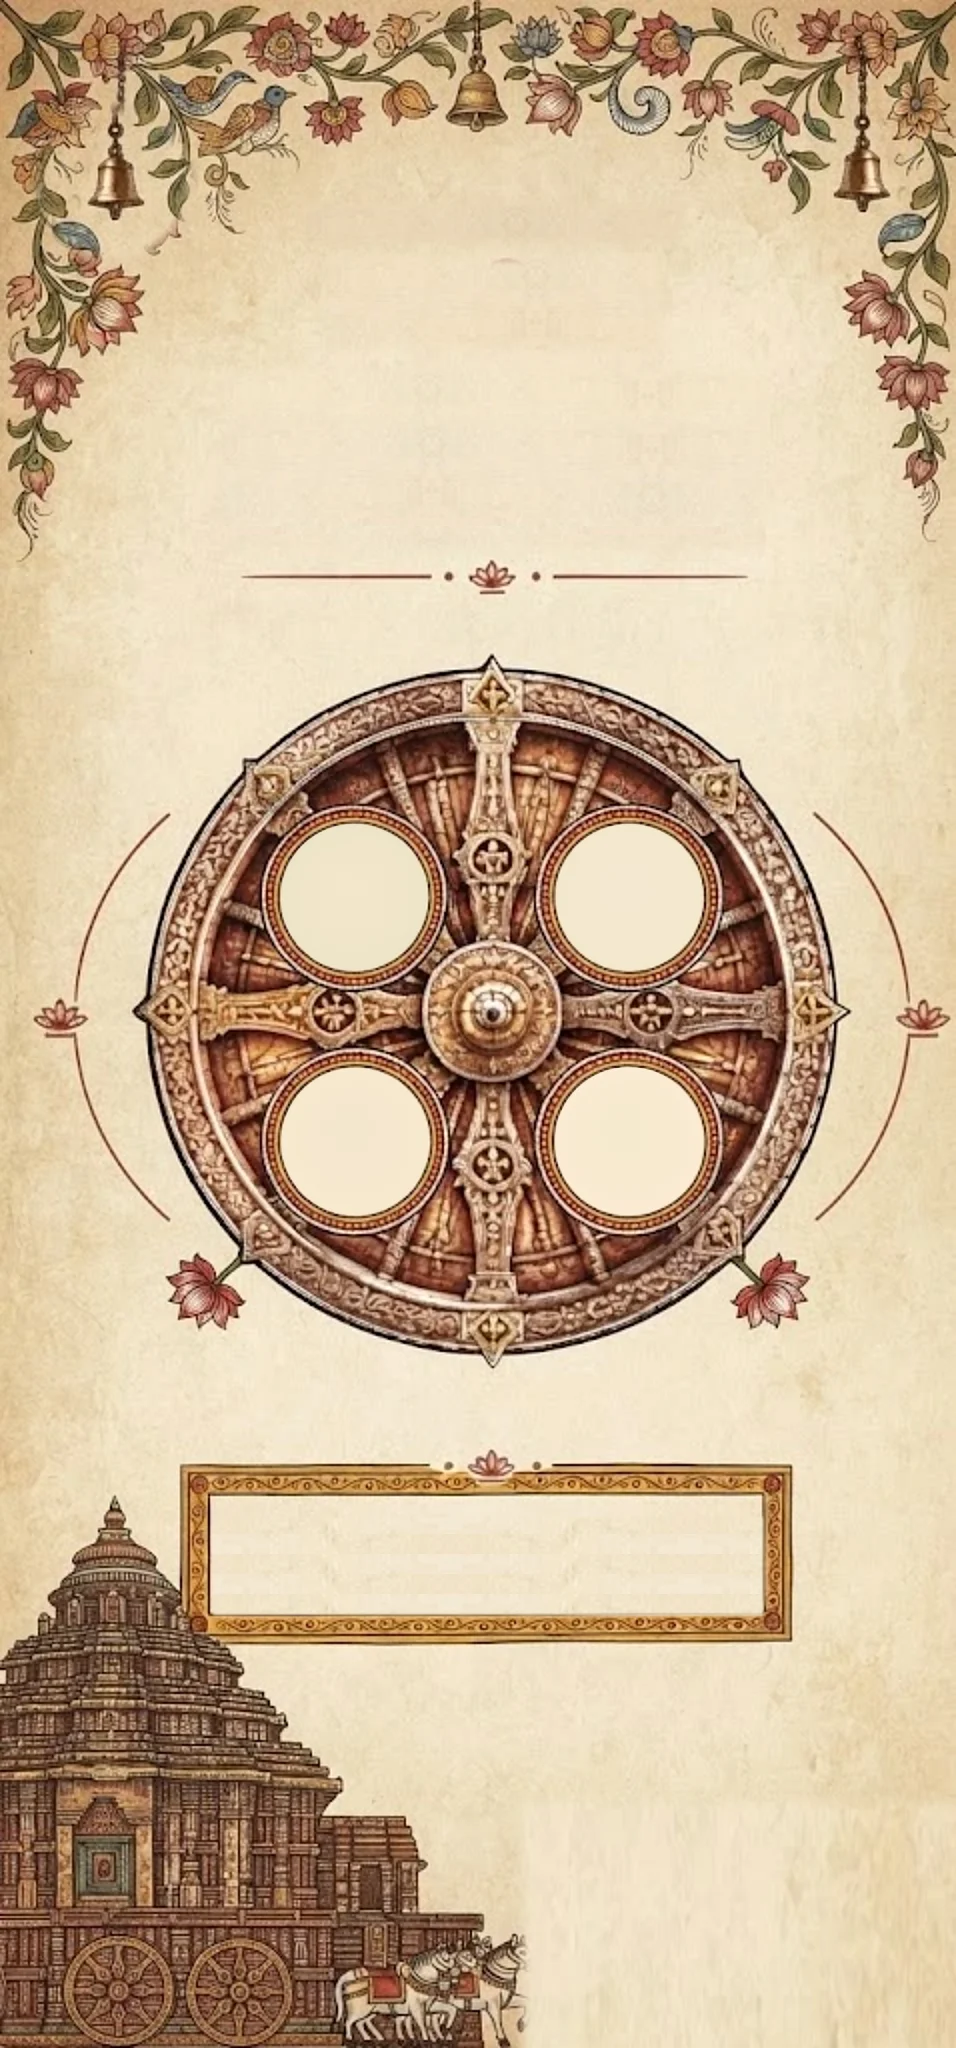
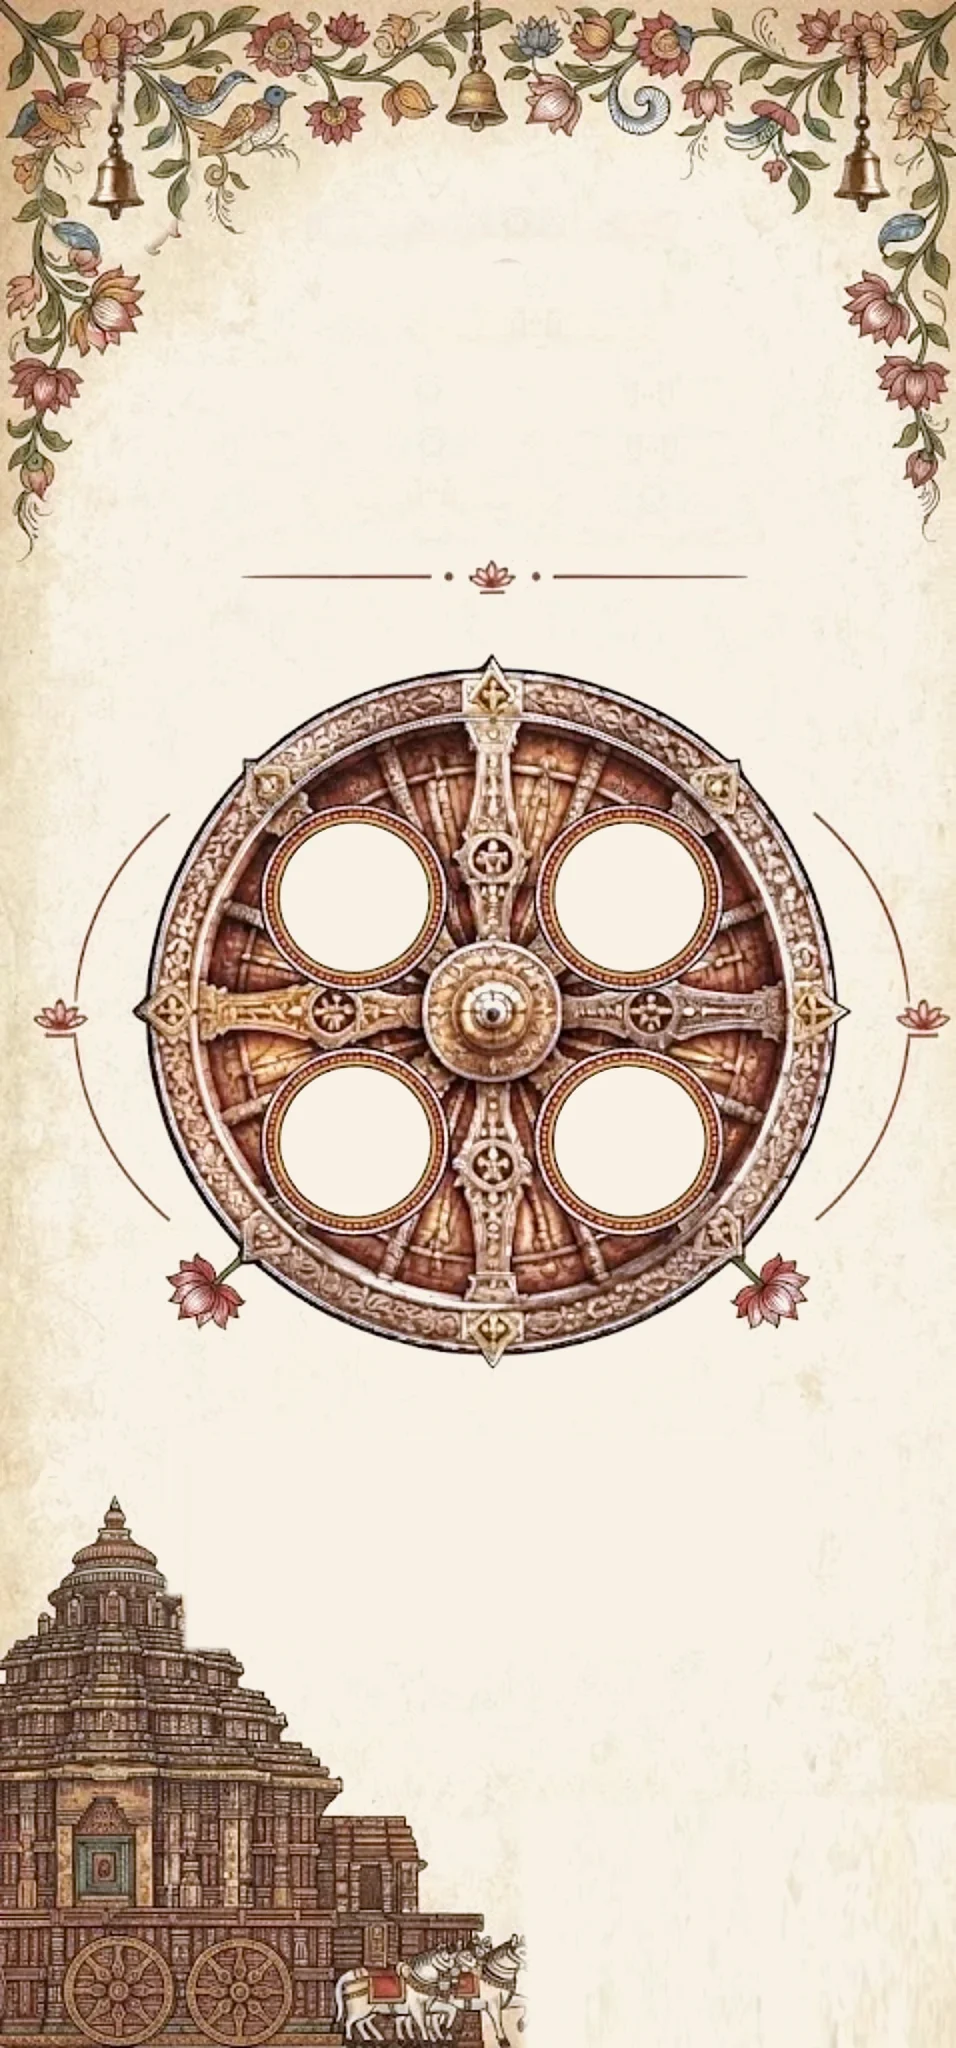
Countdown: cream background again, no date frame, date under the wheel
- The painting's parchment is recoloured to the couple card cream
  (#F8F2E5) by dividing out the local paper colour, so the florals, wheel
  and temple keep their own colours
- The gilded date frame and its lotus are painted out
- The date sits centred, 16px below the wheel's lowest point

diff --git a/src/components/sections/Countdown.tsx b/src/components/sections/Countdown.tsx
@@ -12,7 +12,8 @@ const INK = "#5E4A3A";
 /**
  * The painted page, from the couple's reference design (478×1024, shown 2×):
  * a Pattachitra floral border with temple bells, the carved Konark wheel with
- * four blank clock faces, a gilded date frame and the Sun Temple chariot.
+ * four blank clock faces, and the Sun Temple chariot — its parchment turned
+ * to the couple card's cream.
  * Everything live (words, numbers, date) is set over it in HTML; positions
  * below are in the artwork's own pixels.
  */
@@ -25,6 +26,7 @@ const FACES = [
 ];
 const FACE_R = 37;
 const CENTRE_X = 245;
+const WHEEL_BOTTOM = 676; // tip of the wheel's lowest point
 const pctX = (x: number) => `${((x / ART.w) * 100).toFixed(3)}%`;
 const pctY = (y: number) => `${((y / ART.h) * 100).toFixed(3)}%`;
 const cq = (px: number) => `${((px / ART.w) * 100).toFixed(3)}cqw`;
@@ -66,7 +68,7 @@ function useNow(active: boolean): number {
  * One painted page: under a Pattachitra floral border hung with temple bells,
  * "Shubha Bibaha · The countdown to our Forever Begins"; the carved Konark
  * wheel, its four clock faces counting the days, hours, minutes and seconds
- * to the Lagna; the date in a gilded frame; and the Sun Temple chariot at the
+ * to the Lagna; the date just beneath it; and the Sun Temple chariot at the
  * foot, beside a short note. Hidden in production until the date is
  * configured (unless placeholders are on).
  */
@@ -121,7 +123,7 @@ function CountdownSection({ parts }: { parts: VenueDateTime | null }) {
       ref={ref}
       id="countdown"
       aria-labelledby="countdown-heading"
-      className="relative w-full overflow-hidden bg-[#EFE3CC] bg-cover bg-top text-center [container-type:inline-size]"
+      className="relative w-full overflow-hidden bg-[#F8F2E5] bg-cover bg-top text-center [container-type:inline-size]"
       style={{ aspectRatio: `${ART.w} / ${ART.h}`, backgroundImage: `url(${ART.src})` }}
     >
       <At x={CENTRE_X} y={112} style={fade(0)}>
@@ -171,15 +173,15 @@ function CountdownSection({ parts }: { parts: VenueDateTime | null }) {
         ))}
       </div>
 
-      {/* The date, in its gilded frame */}
-      <At x={CENTRE_X} y={784} style={fade(600)}>
-        <p className="whitespace-nowrap font-display font-medium tracking-[0.12em] [font-variant-numeric:lining-nums]" style={{ fontSize: cq(32), color: INK }}>
+      {/* The date, centred 16px below the wheel */}
+      <div className="absolute -translate-x-1/2" style={{ left: pctX(CENTRE_X), top: `calc(${pctY(WHEEL_BOTTOM)} + 16px)`, ...fade(600) }}>
+        <p className="whitespace-nowrap font-display font-medium leading-none tracking-[0.12em] [font-variant-numeric:lining-nums]" style={{ fontSize: cq(32), color: INK }}>
           {parts ? `${two(parts.day)} · ${two(parts.month)} · ${parts.year}` : "DD · MM · YYYY"}
         </p>
-      </At>
+      </div>
 
       {message && (
-        <At x={CENTRE_X} y={866} style={fade(700)}>
+        <At x={CENTRE_X} y={790} style={fade(700)}>
           <p className="font-display font-semibold italic leading-snug" style={{ fontSize: cq(17), color: RED, width: cq(300) }}>
             {message}
           </p>

diff --git a/README.md b/README.md
@@ -87,7 +87,7 @@ Each section has its own entrance. All of them respect *reduced motion*.
 | Opening | The carved temple gate (`public/art/temple-door.webp`, Lakshmi above) in warm light, a golden fingertip tapping its brass lock above TAP TO OPEN. A tap, or 5 s of nothing, opens it (once): the doors part onto a dark doorway with light deep inside, hundreds of golden motes (one canvas, `opening/GoldDust.tsx`) and delicate rays pour out; the gate fades and is removed; on deep black Mahaprabhu Jagannath (`jagannath-darshan.webp`, sunburst masked away) emerges slowly through the motes in a soft halo; petals fall during the darshan; he dissolves into motes in his own shape, which swirl into a ring that settles onto the invitation's rangoli. Skip / Esc; a sound button plays the sankha |
 | Invitation | The illustrated invitation card (`public/art/invitation-card.jpg`) fits one screen; its plain middle band repeats so it fills any height undistorted. Bold EB Garamond text — the opening line in exactly two lines sized to the width, the names stacked (first / & / second) in Great Vibes, the date and place — is centred between the deities and a colourful filled jhoti rangoli between the banana trees, shrinking just enough to fit (down to 72%, then the card scrolls). The rangoli builds ring by ring and breathes above a bold "Tap the rangoli" on a cream pill; a tap spins its petals into a golden wash that fades into the couple (once only) |
 | Couple | The couple card (`public/art/couple-card.jpg`: carved arch in a red-and-gold border, cream matched to the invitation) fills one screen. Spread evenly inside it: a gold Ganesha, || Om Ganeshaya Namah ||, the guest greeted by name, the names stacked in Great Vibes rising in one after another, the hashtag between gold rules, and a quote under a small lotus; the illustrated couple seated at the sacred fire (`public/art/couple-havan.png`) is centred at the bottom |
-| Countdown | The Cosmic Wheel as one painted page (`public/art/countdown-art.webp`, from the couple's reference design, enlarged with live parts painted out): a Pattachitra floral border hung with temple bells, the carved Konark wheel whose four clock faces count days, hours, mins and secs, the date in a gilded frame, the Sun Temple chariot at the foot. The words, numbers and date are live text placed over the art |
+| Countdown | The Cosmic Wheel as one painted page (`public/art/countdown-art.webp`, from the couple's reference design, enlarged with live parts painted out): a Pattachitra floral border hung with temple bells, the carved Konark wheel whose four clock faces count days, hours, mins and secs, its parchment turned to the couple card's cream; the date centred 16px below the wheel; the Sun Temple chariot at the foot. The words, numbers and date are live text placed over the art |
 | Our Story | On Tusser-silk cream like an unrolled scroll, a shimmering silver Tarakasi filigree vine grows with the scroll; chapters alternate either side, each marked by a Pattachitra icon (interlocking peacocks, Koka lotus, pana-gua on a brass plate) |
 | Events | Cards dealt in with a 3D tilt; details in a bottom sheet (placed just before the family) |
 | Family | Gurujana Pranam & Blessings on deep crimson: Aja & Aai (flanked by two flickering dipas), Pitra-Matra Pranam and Suhuda-Varga in gold-bordered blocks, the two lineages meeting below; a dipa beside departed elders |
